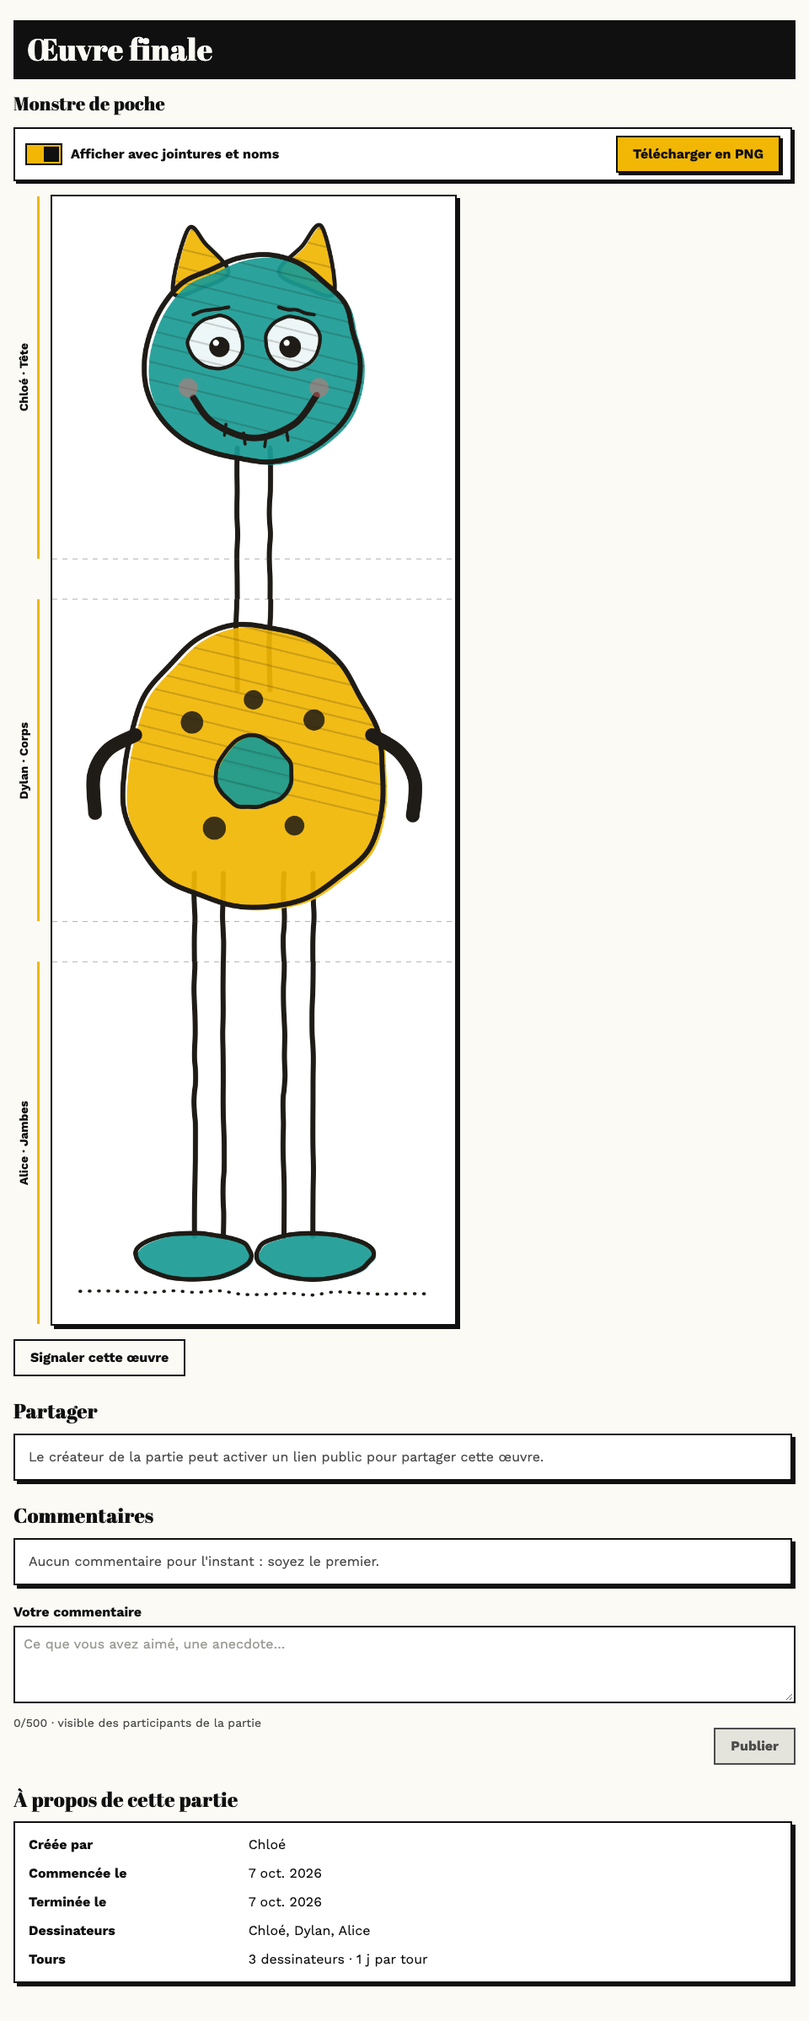
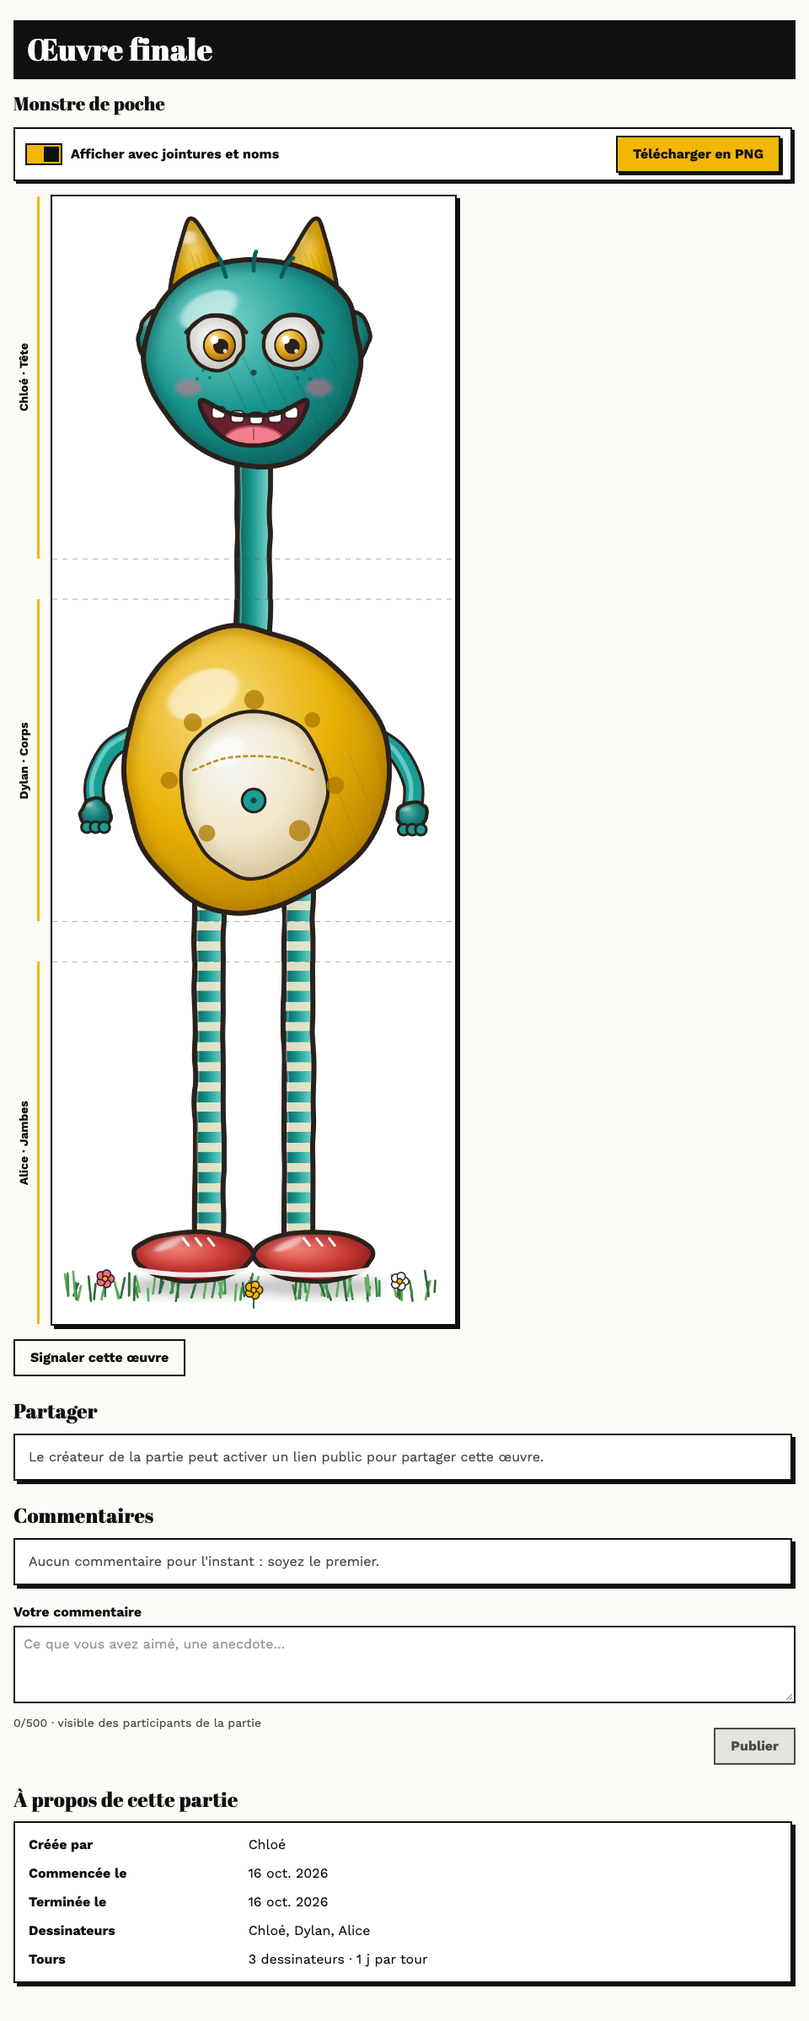
docs: captures régénérées avec des dessins plus réalistes (monstre peint, arbre feuillu) et un tronc dessiné avec les nouveaux outils

Changed region(s): [[0.0625, 0.0926, 0.5312, 0.648], [0.3125, 0.9258, 0.4062, 0.9566]]

diff --git a/scripts/capture-readme.ts b/scripts/capture-readme.ts
@@ -43,10 +43,10 @@ const log = (m: string) => console.log(`[capture] ${m}`);
 // Les extrémités des lignes qui traversent la bande de raccord (cou, jambes, tronc) tombent exactement au même endroit d'un tour
 // à l'autre, pour que le dessin se prolonge sans rupture.
 type Palette = { main: string; accent: string; dark: string };
-const MONSTRE: Palette = { main: "#1B9C95", accent: "#F2B705", dark: "#1F1B16" };
+const MONSTRE: Palette = { main: "#1B9C95", accent: "#F2B705", dark: "#2A211B" };
 const ARBRE: Palette = { main: "#3E8B4A", accent: "#9A6A3A", dark: "#3A2A1A" };
 
-const svgOf = (inner: string) => Buffer.from(`<svg xmlns="http://www.w3.org/2000/svg" width="1600" height="1600" viewBox="0 0 1600 1600">${inner}</svg>`);
+const svgOf = (inner: string) => Buffer.from(`<svg xmlns="http://www.w3.org/2000/svg" width="1600" height="1600" viewBox="0 0 1600 1600">${DEFS}${inner}</svg>`);
 
 /** Générateur pseudo-aléatoire déterministe (mulberry32) : les captures sont identiques d'une exécution à l'autre. */
 function rng(seed: number): () => number {
@@ -101,68 +101,184 @@ function line(x0: number, y0: number, x1: number, y1: number, amp: number, r: ()
 
 const stroke = (d: string, color: string, w: number, extra = "") => `<path d="${d}" fill="none" stroke="${color}" stroke-width="${w}" stroke-linecap="round" stroke-linejoin="round" ${extra}/>`;
 
-/** Forme fermée « au feutre » : remplissage décalé et hachuré, puis double contour. */
-function filled(pts: Pt[], fill: string, ink: string, w: number, id: string, r: () => number, dx = 14, dy = 10): string {
-  const d = smooth(pts, true);
-  const hatch = Array.from({ length: 16 }, (_, i) => {
-    const y = -400 + i * 70 + r() * 20;
-    return `<path d="M-200 ${y} L2000 ${y + 520 + r() * 30}" stroke="${ink}" stroke-opacity=".18" stroke-width="7" stroke-linecap="round"/>`;
-  }).join("");
-  return `<defs><clipPath id="${id}"><path d="${d}" transform="translate(${dx} ${dy})"/></clipPath></defs>
-    <path d="${d}" transform="translate(${dx} ${dy})" fill="${fill}" fill-opacity=".92"/>
-    <g clip-path="url(#${id})">${hatch}</g>
-    ${stroke(d, ink, w)}
-    ${stroke(d, ink, w * 0.45, `transform="translate(${(r() * 8 - 4).toFixed(1)} ${(r() * 8 - 4).toFixed(1)})" stroke-opacity=".6"`)}`;
+// ----- Rendu « crayons de couleur » : dégradés de volume, ombre portée, grain, reflets, contour au crayon -----
+let uid = 0;
+const nid = (p: string) => `${p}${uid++}`;
+
+/** Filtres communs : grain de papier / de crayon et flous d'ombre. */
+const DEFS = `<defs>
+  <filter id="grain" x="0" y="0" width="100%" height="100%"><feTurbulence type="fractalNoise" baseFrequency="0.85" numOctaves="2" seed="4" result="n"/><feColorMatrix in="n" type="matrix" values="0 0 0 0 0  0 0 0 0 0  0 0 0 0 0  0 0 0 1.4 -.55" result="a"/><feComposite in="a" in2="SourceGraphic" operator="in"/></filter>
+  <filter id="b8" x="-30%" y="-30%" width="160%" height="160%"><feGaussianBlur stdDeviation="8"/></filter>
+  <filter id="b20" x="-30%" y="-30%" width="160%" height="160%"><feGaussianBlur stdDeviation="20"/></filter>
+  <filter id="b34" x="-40%" y="-40%" width="180%" height="180%"><feGaussianBlur stdDeviation="34"/></filter>
+</defs>`;
+
+function radial(light: string, base: string, shade: string): { id: string; def: string } {
+  const id = nid("rg");
+  return { id, def: `<radialGradient id="${id}" cx=".36" cy=".3" r=".85"><stop offset="0" stop-color="${light}"/><stop offset=".5" stop-color="${base}"/><stop offset="1" stop-color="${shade}"/></radialGradient>` };
 }
+/** Dégradé horizontal (ne dépend que de x) : une forme qui traverse la bande de raccord garde la même teinte des deux côtés. */
+function linearX(a: string, b: string, c: string): { id: string; def: string } {
+  const id = nid("lg");
+  return { id, def: `<linearGradient id="${id}" x1="0" y1="0" x2="1" y2="0"><stop offset="0" stop-color="${a}"/><stop offset=".45" stop-color="${b}"/><stop offset="1" stop-color="${c}"/></linearGradient>` };
+}
+const bounds = (pts: Pt[]) => {
+  const xs = pts.map((p) => p[0]), ys = pts.map((p) => p[1]);
+  const x0 = Math.min(...xs), x1 = Math.max(...xs), y0 = Math.min(...ys), y1 = Math.max(...ys);
+  return { x0, y0, x1, y1, cx: (x0 + x1) / 2, cy: (y0 + y1) / 2, w: x1 - x0, h: y1 - y0 };
+};
+
+type Tint = { light: string; base: string; shade: string };
+/** Forme peinte : volume (dégradé radial), ombre intérieure, hachures, grain, reflet, double contour au crayon. */
+function painted(pts: Pt[], t: Tint, ink: string, w: number, r: () => number, opts: { shine?: boolean; hatch?: boolean } = {}): string {
+  const id = nid("p");
+  const d = smooth(pts, true);
+  const g = radial(t.light, t.base, t.shade);
+  const b = bounds(pts);
+  const hatch = opts.hatch === false ? "" : Array.from({ length: 7 }, (_, i) => {
+    const x = b.x0 + b.w * (0.35 + i * 0.1);
+    return `<path d="M${x.toFixed(0)} ${(b.y0 + b.h * 0.45).toFixed(0)} l${(b.w * 0.22).toFixed(0)} ${(b.h * 0.5).toFixed(0)}" stroke="${t.shade}" stroke-opacity=".22" stroke-width="6" stroke-linecap="round"/>`;
+  }).join("");
+  const shine = opts.shine === false ? "" : `<ellipse cx="${(b.x0 + b.w * 0.3).toFixed(0)}" cy="${(b.y0 + b.h * 0.24).toFixed(0)}" rx="${(b.w * 0.14).toFixed(0)}" ry="${(b.h * 0.08).toFixed(0)}" fill="#fff" opacity=".55" filter="url(#b8)" transform="rotate(-25 ${(b.x0 + b.w * 0.3).toFixed(0)} ${(b.y0 + b.h * 0.24).toFixed(0)})"/>`;
+  return `<defs>${g.def}<clipPath id="c${id}"><path d="${d}"/></clipPath></defs>
+    <path d="${d}" fill="url(#${g.id})"/>
+    <g clip-path="url(#c${id})">
+      <path d="${d}" fill="none" stroke="${t.shade}" stroke-width="70" opacity=".5" filter="url(#b20)"/>
+      ${hatch}
+      <path d="${d}" fill="#000" filter="url(#grain)" opacity=".2"/>
+      ${shine}
+    </g>
+    ${stroke(d, ink, w)}
+    ${stroke(d, ink, w * 0.4, `transform="translate(${(r() * 6 - 3).toFixed(1)} ${(r() * 6 - 3).toFixed(1)})" stroke-opacity=".55"`)}`;
+}
+
+/** Tube entre deux lignes verticales (extrémités exactes en x) : remplissage dégradé + deux contours tremblants. */
+function tube(xl: number, xr: number, y0: number, y1: number, t: [string, string, string], ink: string, w: number, r: () => number, bands?: { period: number; color: string; height: number }): string {
+  const g = linearX(...t);
+  const left = line(xl, y0, xl, y1, 5, r), right = line(xr, y0, xr, y1, 5, r);
+  const body = `M${xl} ${y0} L${xr} ${y0} L${xr} ${y1} L${xl} ${y1} Z`;
+  const stripes = bands
+    ? Array.from({ length: Math.ceil((y1 - y0) / bands.period) + 1 }, (_, i) => {
+        const y = Math.ceil(y0 / bands.period) * bands.period + i * bands.period;
+        return y + bands.height <= y1 + bands.period ? `<rect x="${xl}" y="${y}" width="${xr - xl}" height="${bands.height}" fill="${bands.color}" fill-opacity=".9"/>` : "";
+      }).join("")
+    : "";
+  return `<defs>${g.def}<clipPath id="ct${xl}_${y0}"><path d="${body}"/></clipPath></defs>
+    <path d="${body}" fill="url(#${g.id})"/>
+    <g clip-path="url(#ct${xl}_${y0})">${stripes}<path d="${body}" fill="#000" filter="url(#grain)" opacity=".18"/></g>
+    ${stroke(smooth(left), ink, w)}${stroke(smooth(right), ink, w)}
+    ${stroke(smooth(line(xl + 14, y0, xl + 14, y1, 4, r)), "#ffffff", 6, 'stroke-opacity=".35"')}`;
+}
+
+const TEAL: Tint = { light: "#7FE0D6", base: "#1B9C95", shade: "#0B5F5B" };
+const GOLD: Tint = { light: "#FFE58A", base: "#F2B705", shade: "#B07A00" };
+const CREAM: Tint = { light: "#FFFFFF", base: "#FBF1D3", shade: "#D9C79A" };
+const RED: Tint = { light: "#FF8F86", base: "#D6403A", shade: "#8E1E1E" };
+const WHITE: Tint = { light: "#FFFFFF", base: "#F4F4F0", shade: "#C9C9C0" };
 
 function shapes(k: number, p: Palette): string {
   const r = rng(100 + k);
   const ink = p.dark;
+  const eye = (cx: number, look: number) => {
+    const ix = cx + look, iy = 592;
+    const g = radial("#FFE9A8", "#E2A21B", "#8A5A00");
+    return `${painted(blob(cx, 580, 112, 108, 6, r), WHITE, ink, 14, r, { hatch: false, shine: false })}
+      <defs>${g.def}</defs><circle cx="${ix}" cy="${iy}" r="62" fill="url(#${g.id})" stroke="${ink}" stroke-width="7"/>
+      <circle cx="${ix + 6}" cy="${iy + 4}" r="30" fill="${ink}"/>
+      <circle cx="${ix - 20}" cy="${iy - 22}" r="16" fill="#fff"/><circle cx="${ix + 22}" cy="${iy + 22}" r="8" fill="#fff" fill-opacity=".8"/>
+      ${stroke(smooth([[cx - 118, 540], [cx - 40, 478], [cx + 60, 482], [cx + 120, 540]]), ink, 16)}`;
+  };
   if (k === 1) {
-    // Cou (extrémités fixes en x = 735 et 865 sur la bande de raccord), puis tête, cornes, yeux, sourire.
-    const neck = [line(735, 1000, 735, 1600, 5, r), line(865, 1000, 865, 1600, 5, r)].map((l) => stroke(smooth(l), ink, 20)).join("");
-    const eye = (cx: number, dx: number, id: string) =>
-      filled(blob(cx, 580, 108, 104, 6, r), "#ffffff", ink, 14, id, r, 6, 5) + `<circle cx="${cx + dx}" cy="${598}" r="${40 + r() * 8}" fill="${ink}"/><circle cx="${cx + dx - 14}" cy="${582}" r="12" fill="#fff"/>`;
-    const horn = (pts: Pt[], id: string) => filled(pts, p.accent, ink, 16, id, r, 8, 6);
-    return `${neck}
-      ${horn([[480, 380], [540, 130], [610, 190], [700, 300], [600, 360]], "h1")}
-      ${horn([[1120, 380], [1070, 120], [990, 200], [900, 300], [1000, 360]], "h2")}
-      ${filled(blob(800, 650, 430, 410, 20, r), p.main, ink, 20, "head", r, 18, 12)}
-      ${eye(650, 14, "e1")}${eye(955, -10, "e2")}
-      ${stroke(smooth(line(560, 470, 700, 440, 10, r)), ink, 14)}${stroke(smooth(line(900, 440, 1040, 470, 10, r)), ink, 14)}
-      ${stroke(smooth([[560, 800], [640, 900], [800, 960], [960, 905], [1050, 790]]), ink, 26)}
-      ${[690, 760, 850, 930].map((x, i) => stroke(`M${x} ${[905, 940, 950, 925][i]} l${i % 2 ? 6 : -6} 44`, ink, 12)).join("")}
-      <circle cx="540" cy="760" r="38" fill="#F26B6B" fill-opacity=".45"/><circle cx="1060" cy="760" r="38" fill="#F26B6B" fill-opacity=".45"/>`;
+    const neck = tube(735, 865, 1000, 1600, ["#0B5F5B", "#1B9C95", "#7FE0D6"], ink, 20, r);
+    const horn = (pts: Pt[]) => painted(pts, GOLD, ink, 16, r);
+    const earL = painted(blob(430, 560, 90, 110, 8, r), TEAL, ink, 16, r);
+    const earR = painted(blob(1170, 560, 90, 110, 8, r), TEAL, ink, 16, r);
+    const mouthPts: Pt[] = [[590, 810], [700, 860], [800, 870], [900, 860], [1010, 810], [980, 900], [900, 970], [800, 990], [700, 970], [620, 900]];
+    const mouthD = smooth(mouthPts, true);
+    const teeth = [660, 735, 810, 885, 950].map((x, i) => `<rect x="${x - 26}" y="${[836, 852, 858, 852, 836][i]}" width="52" height="46" rx="14" fill="#fff" stroke="${ink}" stroke-width="6"/>`).join("");
+    const mouth = `<defs><clipPath id="cm"><path d="${mouthD}"/></clipPath></defs>
+      <path d="${mouthD}" fill="#6B1F2E"/>
+      <g clip-path="url(#cm)"><ellipse cx="800" cy="975" rx="120" ry="62" fill="#F27F8E" stroke="#B0485A" stroke-width="8"/>${stroke("M800 925 l0 40", "#B0485A", 7)}</g>
+      ${teeth}${stroke(mouthD, ink, 18)}`;
+    return `${neck}${earL}${earR}
+      ${horn([[470, 400], [520, 150], [560, 90], [640, 210], [700, 330], [600, 380]])}
+      ${horn([[1130, 400], [1080, 150], [1040, 90], [960, 210], [900, 330], [1000, 380]])}
+      ${painted(blob(800, 650, 430, 410, 20, r), TEAL, ink, 20, r)}
+      ${[[690, 250], [800, 225], [910, 250]].map(([x, y]) => stroke(`M${x} ${y + 70} q${(x - 800) / 6} -60 ${(x - 800) / 3 + 10} -75`, TEAL.shade, 16)).join("")}
+      ${eye(650, 14)}${eye(955, -8)}
+      <circle cx="800" cy="700" r="12" fill="${ink}" fill-opacity=".7"/>
+      <ellipse cx="540" cy="760" rx="52" ry="34" fill="#F26B8A" opacity=".5" filter="url(#b8)"/><ellipse cx="1060" cy="760" rx="52" ry="34" fill="#F26B8A" opacity=".5" filter="url(#b8)"/>
+      ${[[600, 690], [625, 720], [575, 725], [1000, 690], [975, 720], [1025, 725]].map(([x, y]) => `<circle cx="${x}" cy="${y}" r="7" fill="#0B5F5B" fill-opacity=".6"/>`).join("")}
+      ${mouth}`;
   }
   if (k === 2) {
-    // Cou en haut (mêmes x qu'au tour 1), corps, bras, ventre, jambes (extrémités fixes en x = 565/680 et 920/1035 en bas).
-    const neck = [line(735, 0, 735, 520, 5, r), line(865, 0, 865, 520, 5, r)].map((l) => stroke(smooth(l), ink, 20)).join("");
-    const legs = [line(565, 1250, 565, 1600, 5, r), line(680, 1250, 680, 1600, 5, r), line(920, 1250, 920, 1600, 5, r), line(1035, 1250, 1035, 1600, 5, r)]
-      .map((l) => stroke(smooth(l), ink, 20)).join("");
+    const neck = tube(735, 865, 0, 520, ["#0B5F5B", "#1B9C95", "#7FE0D6"], ink, 20, r);
+    const legs = [565, 920].map((x) => tube(x, x + 115, 1250, 1600, ["#0B5F5B", "#1B9C95", "#7FE0D6"], ink, 20, r, { period: 80, color: "#FBF1D3", height: 36 })).join("");
+    const arm = (pts: Pt[]) => {
+      const d = smooth(pts);
+      return `${stroke(d, ink, 84)}${stroke(d, "#1B9C95", 62)}${stroke(d, "#7FE0D6", 18, 'transform="translate(-10 -10)" stroke-opacity=".7"')}`;
+    };
+    const hand = (cx: number, cy: number) =>
+      painted(blob(cx, cy, 60, 56, 6, r), TEAL, ink, 14, r, { hatch: false }) +
+      [-34, 0, 34].map((dx) => `<circle cx="${cx + dx}" cy="${cy + 56}" r="22" fill="#1B9C95" stroke="${ink}" stroke-width="10"/>`).join("");
     return `${neck}${legs}
-      ${filled(blob(800, 840, 520, 560, 24, r), p.accent, ink, 20, "body", r, 16, 12)}
-      ${stroke(smooth([[330, 700], [220, 760], [165, 860], [170, 1010]]), ink, 54)}${stroke(smooth([[1270, 700], [1380, 770], [1440, 880], [1432, 1020]]), ink, 54)}
-      ${filled(blob(800, 850, 150, 140, 10, r), p.main, ink, 16, "belly", r, 8, 6)}
-      ${[[560, 650], [1040, 640], [800, 560], [650, 1070], [960, 1060]].map(([x, y]) => `<circle cx="${Math.round(x + (r() * 14 - 7))}" cy="${y}" r="${38 + r() * 12}" fill="${ink}" fill-opacity=".85"/>`).join("")}`;
+      ${arm([[330, 700], [230, 760], [170, 880], [172, 990]])}${arm([[1270, 700], [1370, 770], [1432, 890], [1430, 1000]])}
+      ${hand(172, 1010)}${hand(1430, 1020)}
+      ${painted(blob(800, 840, 520, 560, 24, r), GOLD, ink, 20, r)}
+      ${painted(blob(800, 930, 290, 330, 14, r), CREAM, ink, 14, r, { hatch: false })}
+      ${stroke(smooth([[560, 840], [700, 790], [900, 790], [1040, 840]]), "#B07A00", 9, 'stroke-dasharray="14 16" stroke-opacity=".8"')}
+      ${[[560, 650], [1040, 640], [800, 560], [620, 1090], [980, 1080], [470, 880], [1130, 900]].map(([x, y]) => `<circle cx="${Math.round(x + (r() * 14 - 7))}" cy="${y}" r="${30 + Math.round(r() * 14)}" fill="#B07A00" fill-opacity=".75"/>`).join("")}
+      <circle cx="800" cy="960" r="46" fill="#1B9C95" stroke="${ink}" stroke-width="10"/><circle cx="800" cy="960" r="12" fill="${ink}" fill-opacity=".7"/>`;
   }
-  // k === 3 : jambes (extrémités fixes en haut), pieds, sol pointillé.
-  const legs = [line(565, 0, 565, 1250, 5, r), line(680, 0, 680, 1250, 5, r), line(920, 0, 920, 1250, 5, r), line(1035, 0, 1035, 1250, 5, r)]
-    .map((l) => stroke(smooth(l), ink, 20)).join("");
-  return `${legs}
-    ${filled(blob(560, 1330, 230, 92, 10, r), p.main, ink, 18, "f1", r, 8, 8)}
-    ${filled(blob(1040, 1330, 230, 92, 10, r), p.main, ink, 18, "f2", r, 8, 8)}
-    ${stroke(smooth(line(110, 1470, 1490, 1480, 10, r)), ink, 12, 'stroke-dasharray="3 34"')}`;
+  // k === 3 : jambes rayées, chaussures, ombre portée, herbe et fleurs.
+  const legs = [565, 920].map((x) => tube(x, x + 115, 0, 1250, ["#0B5F5B", "#1B9C95", "#7FE0D6"], ink, 20, r, { period: 80, color: "#FBF1D3", height: 36 })).join("");
+  const shoe = (cx: number) =>
+    painted(blob(cx, 1330, 235, 98, 10, r), RED, ink, 18, r, { hatch: false }) +
+    `<path d="M${cx - 215} 1385 Q${cx} 1425 ${cx + 215} 1385" fill="none" stroke="#fff" stroke-width="20" stroke-linecap="round" stroke-opacity=".9"/>` +
+    [-40, 10, 60].map((dx) => stroke(`M${cx + dx} 1260 l22 28`, "#fff", 10)).join("");
+  const grass = Array.from({ length: 70 }, () => {
+    const x = 60 + r() * 1480, y = 1470 + r() * 40, h = 40 + r() * 60, lean = r() * 40 - 20;
+    return stroke(`M${x.toFixed(0)} ${y.toFixed(0)} q${(lean / 2).toFixed(0)} ${(-h / 2).toFixed(0)} ${lean.toFixed(0)} ${(-h).toFixed(0)}`, ["#3E8B4A", "#5DAE5A", "#2F6B3A"][Math.floor(r() * 3)], 9);
+  }).join("");
+  const flower = (x: number, y: number, c: string) =>
+    `${stroke(`M${x} ${y} l0 70`, "#2F6B3A", 8)}${Array.from({ length: 5 }, (_, i) => `<circle cx="${(x + Math.cos((i / 5) * 6.283) * 20).toFixed(0)}" cy="${(y + Math.sin((i / 5) * 6.283) * 20).toFixed(0)}" r="16" fill="${c}" stroke="${ink}" stroke-width="5"/>`).join("")}<circle cx="${x}" cy="${y}" r="11" fill="#F2B705" stroke="${ink}" stroke-width="5"/>`;
+  return `<ellipse cx="560" cy="1450" rx="270" ry="40" fill="#000" opacity=".22" filter="url(#b20)"/><ellipse cx="1040" cy="1450" rx="270" ry="40" fill="#000" opacity=".22" filter="url(#b20)"/>
+    ${legs}${grass}${shoe(560)}${shoe(1040)}${flower(210, 1420, "#F26B8A")}${flower(1380, 1430, "#FFFFFF")}${flower(800, 1465, "#F2B705")}`;
 }
 
-/** Arbre (tour 1) : feuillage en nuage, pommes, haut du tronc qui traverse la bande de raccord (x = 720 et 880). */
+/** Arbre (tour 1) : tronc à écorce, feuillage en nuage ombré, pommes brillantes. Le tronc traverse la bande de raccord (x = 720 et 880). */
 function treeShapes(p: Palette): string {
   const r = rng(300);
-  const trunk = [line(720, 620, 720, 1600, 5, r), line(880, 620, 880, 1600, 5, r)].map((l) => stroke(smooth(l), p.dark, 22)).join("");
-  const puffs = [[800, 420, 330, 280], [500, 520, 250, 220], [1100, 520, 250, 220], [650, 280, 220, 190], [960, 280, 220, 190]]
-    .map(([cx, cy, rx, ry], i) => filled(blob(cx, cy, rx, ry, 18, r), i % 2 ? "#4FA05A" : p.main, p.dark, 18, `leaf${i}`, r, 10, 10)).join("");
-  const apples = [[560, 560], [840, 330], [1060, 600], [700, 700]]
-    .map(([x, y]) => `<circle cx="${x}" cy="${y}" r="34" fill="#D6403A" stroke="${p.dark}" stroke-width="9"/><path d="M${x} ${y - 34} l8 -26" stroke="${p.dark}" stroke-width="8" stroke-linecap="round"/>`).join("");
-  return `${trunk}${puffs}${apples}`;
+  const ink = p.dark;
+  const BARK: [string, string, string] = ["#5A3A1E", "#9A6A3A", "#C99A5E"];
+  const bark = Array.from({ length: 26 }, () => {
+    const x = 735 + r() * 130, y = 700 + r() * 880, h = 50 + r() * 120;
+    return stroke(`M${x.toFixed(0)} ${y.toFixed(0)} q${(r() * 12 - 6).toFixed(0)} ${(h / 2).toFixed(0)} ${(r() * 10 - 5).toFixed(0)} ${h.toFixed(0)}`, "#3A2A1A", 6, 'stroke-opacity=".55"');
+  }).join("");
+  const trunk = tube(720, 880, 620, 1600, BARK, ink, 22, r) + bark;
+  // Feuillage : une cinquantaine de touffes légères (dégradé, fin contour), du fond sombre vers le dessus clair.
+  const leaf = (cx: number, cy: number, rad: number, light: number) => {
+    const g = radial(light > 0.66 ? "#D7F2B0" : light > 0.33 ? "#B6E39B" : "#8FCB84", light > 0.66 ? "#6DBB5E" : light > 0.33 ? "#4FA05A" : "#3E8B4A", light > 0.66 ? "#3E8B4A" : "#1F5A32");
+    const pts = blob(cx, cy, rad, rad * 0.88, rad * 0.1, r);
+    return `<defs>${g.def}</defs><path d="${smooth(pts, true)}" fill="url(#${g.id})" stroke="#1F5A32" stroke-width="7" stroke-opacity=".85"/>
+      <path d="M${cx - rad * 0.4} ${cy - rad * 0.2} q${rad * 0.3} ${-rad * 0.35} ${rad * 0.7} ${-rad * 0.2}" stroke="#fff" stroke-opacity=".35" stroke-width="9" fill="none" stroke-linecap="round"/>`;
+  };
+  const spots: [number, number, number][] = [];
+  while (spots.length < 52) {
+    const a = r() * Math.PI * 2, d = Math.sqrt(r());
+    const x = 800 + Math.cos(a) * d * 470, y = 440 + Math.sin(a) * d * 290;
+    spots.push([x, y, 72 + r() * 46]);
+  }
+  spots.sort((a, b) => b[1] - a[1]);
+  const maxY = 730, minY = 150;
+  const branches = [stroke("M800 640 q-70 -70 -170 -110", ink, 34), stroke("M800 640 q70 -70 170 -110", ink, 34), stroke("M800 650 q-70 -70 -170 -110", "#9A6A3A", 22), stroke("M800 650 q70 -70 170 -110", "#9A6A3A", 22)].join("");
+  const puffs = `<ellipse cx="800" cy="430" rx="440" ry="230" fill="#1F5A32" opacity=".4" filter="url(#b34)"/>` + spots.map(([x, y, rad]) => leaf(x, y, rad, 1 - (y - minY) / (maxY - minY))).join("");
+  const veins = "";
+  const apple = (x: number, y: number) => {
+    const g = radial("#FF9A90", "#D6403A", "#8E1E1E");
+    return `<defs>${g.def}</defs><circle cx="${x}" cy="${y}" r="40" fill="url(#${g.id})" stroke="${ink}" stroke-width="8"/><ellipse cx="${x - 14}" cy="${y - 16}" rx="10" ry="6" fill="#fff" opacity=".7" transform="rotate(-30 ${x - 14} ${y - 16})"/>${stroke(`M${x} ${y - 40} q6 -22 18 -30`, ink, 7)}<path d="M${x + 6} ${y - 52} q22 -18 38 -4 q-22 14 -38 4z" fill="#4FA05A" stroke="${ink}" stroke-width="5"/>`;
+  };
+  return `${trunk}${branches}${puffs}${veins}${[[560, 560], [870, 330], [1040, 600], [700, 690], [440, 440], [1170, 470], [900, 560]].map(([x, y]) => apple(x, y)).join("")}`;
 }
 
 /** Dessin du tour `k` : la bande héritée du tour précédent est reposée en haut, comme dans l'éditeur. */
@@ -350,25 +466,35 @@ async function main() {
         }
         await page.mouse.up();
       };
-      // Le tronc prolonge celui de la bande reçue (x ≈ 0,45 et 0,55) : deux traits épais bruns, puis l'écorce au crayon fin.
+      // Le tronc prolonge celui de la bande reçue (x ≈ 0,45 et 0,55) : d'abord le remplissage au surligneur brun (trois passes),
+      // puis les deux contours au crayon épais, l'écorce au crayon fin, un nœud (ovale), un reflet et de la mousse.
+      const size = async (v: string) => page.getByLabel("Taille du trait").fill(v);
       await page.getByRole("button", { name: "Marron", exact: true }).click();
+      await page.getByRole("button", { name: "Crayon", exact: true }).click();
+      await size("60");
+      for (const x of [0.466, 0.5, 0.534]) await hand([[x, 0.09], [x + 0.002, 0.45], [x - 0.002, 0.91]], 0.003);
+      await page.getByRole("button", { name: "Noir", exact: true }).click();
       await page.getByRole("button", { name: "Épais", exact: true }).click();
       await hand([[0.45, 0.1], [0.452, 0.3], [0.447, 0.55], [0.455, 0.9]]);
       await hand([[0.55, 0.1], [0.548, 0.32], [0.553, 0.6], [0.545, 0.9]]);
       await page.getByRole("button", { name: "Fin", exact: true }).click();
-      for (const [x, y] of [[0.48, 0.25], [0.51, 0.4], [0.485, 0.55], [0.515, 0.7], [0.49, 0.82]] as [number, number][]) {
-        await hand([[x, y], [x + 0.012, y + 0.035], [x + 0.004, y + 0.07]], 0.003);
+      await page.getByRole("button", { name: "Noir", exact: true }).click();
+      for (const [x, y] of [[0.47, 0.22], [0.51, 0.3], [0.485, 0.42], [0.52, 0.5], [0.475, 0.62], [0.515, 0.72], [0.49, 0.82]] as [number, number][]) {
+        await hand([[x, y], [x + 0.008, y + 0.04], [x + 0.002, y + 0.08]], 0.003);
       }
-      // Reflet de lumière au surligneur, mousse à l'aérographe.
+      await page.getByRole("button", { name: "Moyen", exact: true }).click();
+      await page.getByRole("button", { name: "Ovale", exact: true }).click();
+      await page.getByRole("button", { name: "Rempli", exact: true }).click();
+      await hand([[0.5, 0.52], [0.52, 0.58]], 0);
       await page.getByRole("button", { name: "Jaune", exact: true }).click();
       await page.getByRole("button", { name: "Surligneur", exact: true }).click();
-      await page.getByLabel("Taille du trait").fill("34");
-      await hand([[0.47, 0.16], [0.468, 0.45], [0.472, 0.76]], 0.004);
+      await size("26");
+      await hand([[0.475, 0.16], [0.473, 0.45], [0.477, 0.74]], 0.003);
       await page.getByRole("button", { name: "Vert", exact: true }).click();
       await page.getByRole("button", { name: "Aérographe", exact: true }).click();
-      await page.getByLabel("Taille du trait").fill("46");
-      await hand([[0.452, 0.8], [0.5, 0.76], [0.548, 0.82]], 0.004);
-      await hand([[0.452, 0.28], [0.472, 0.36], [0.455, 0.44]], 0.004);
+      await size("40");
+      await hand([[0.452, 0.8], [0.5, 0.76], [0.548, 0.83]], 0.004);
+      await hand([[0.452, 0.28], [0.468, 0.36], [0.455, 0.46]], 0.004);
       if (hover) await page.mouse.move(...at(0.78, 0.62), { steps: 4 });
     };
 
